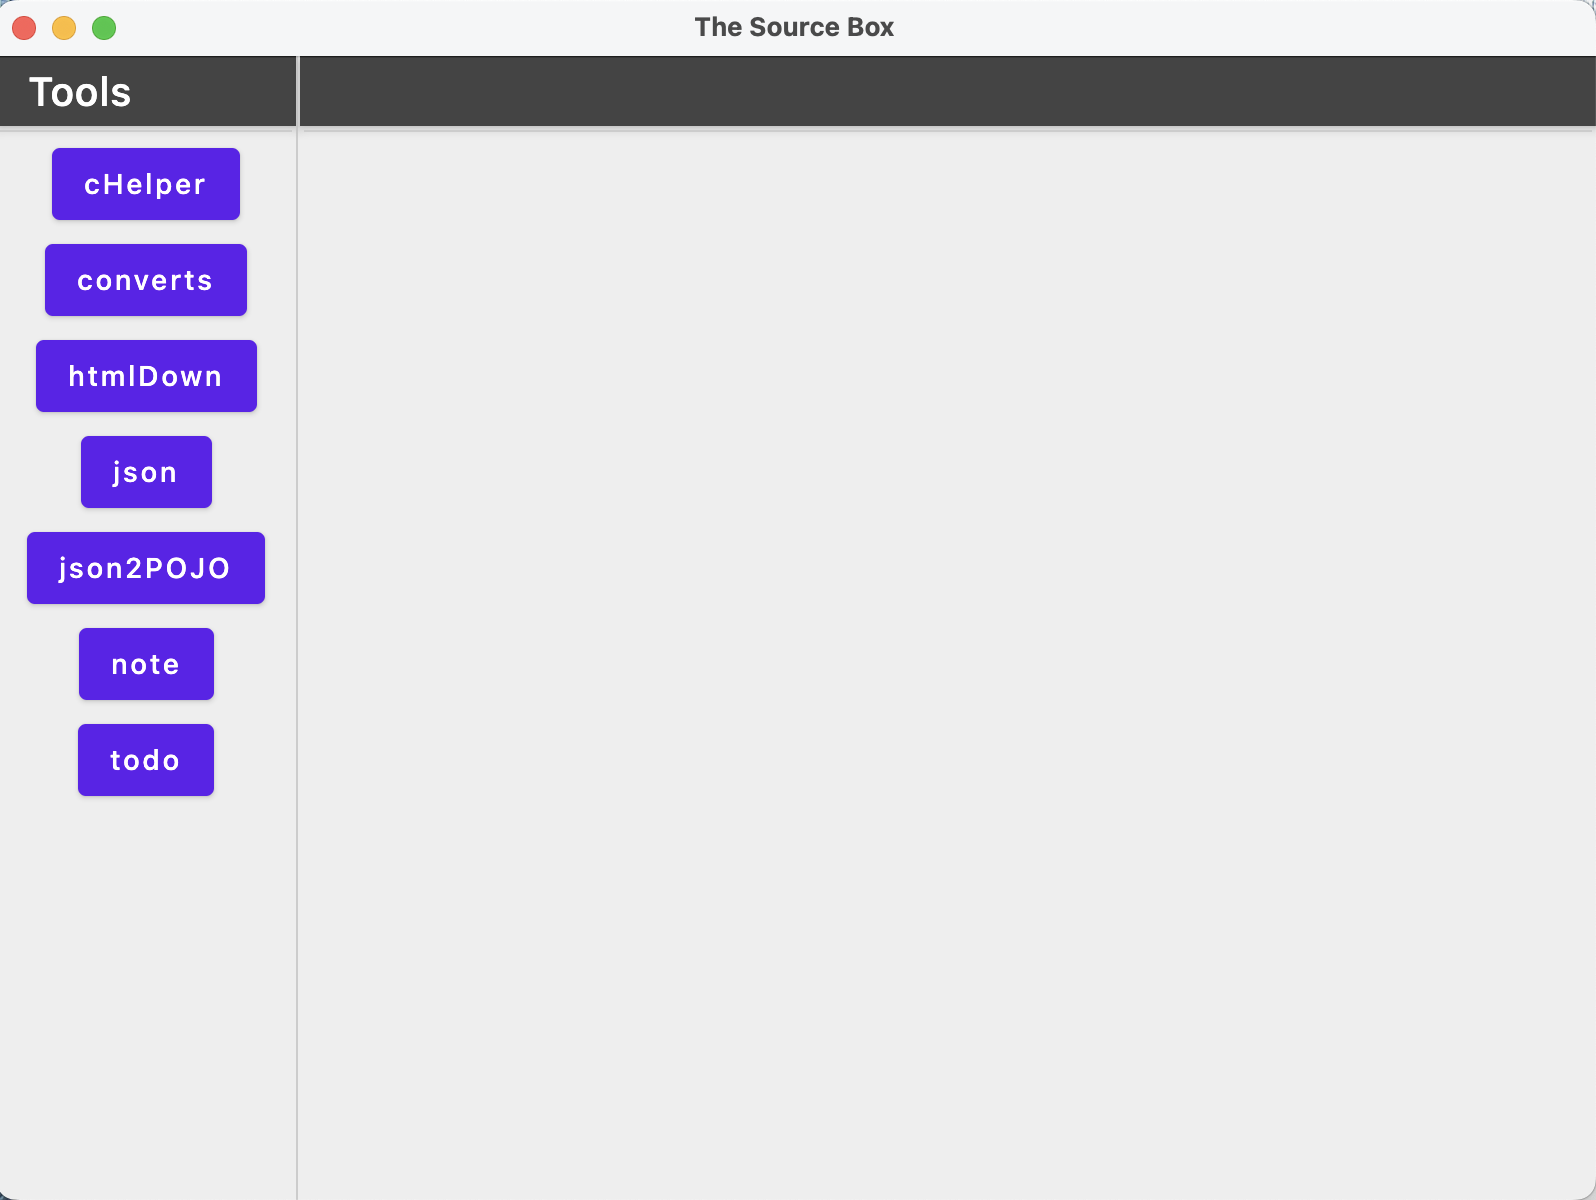
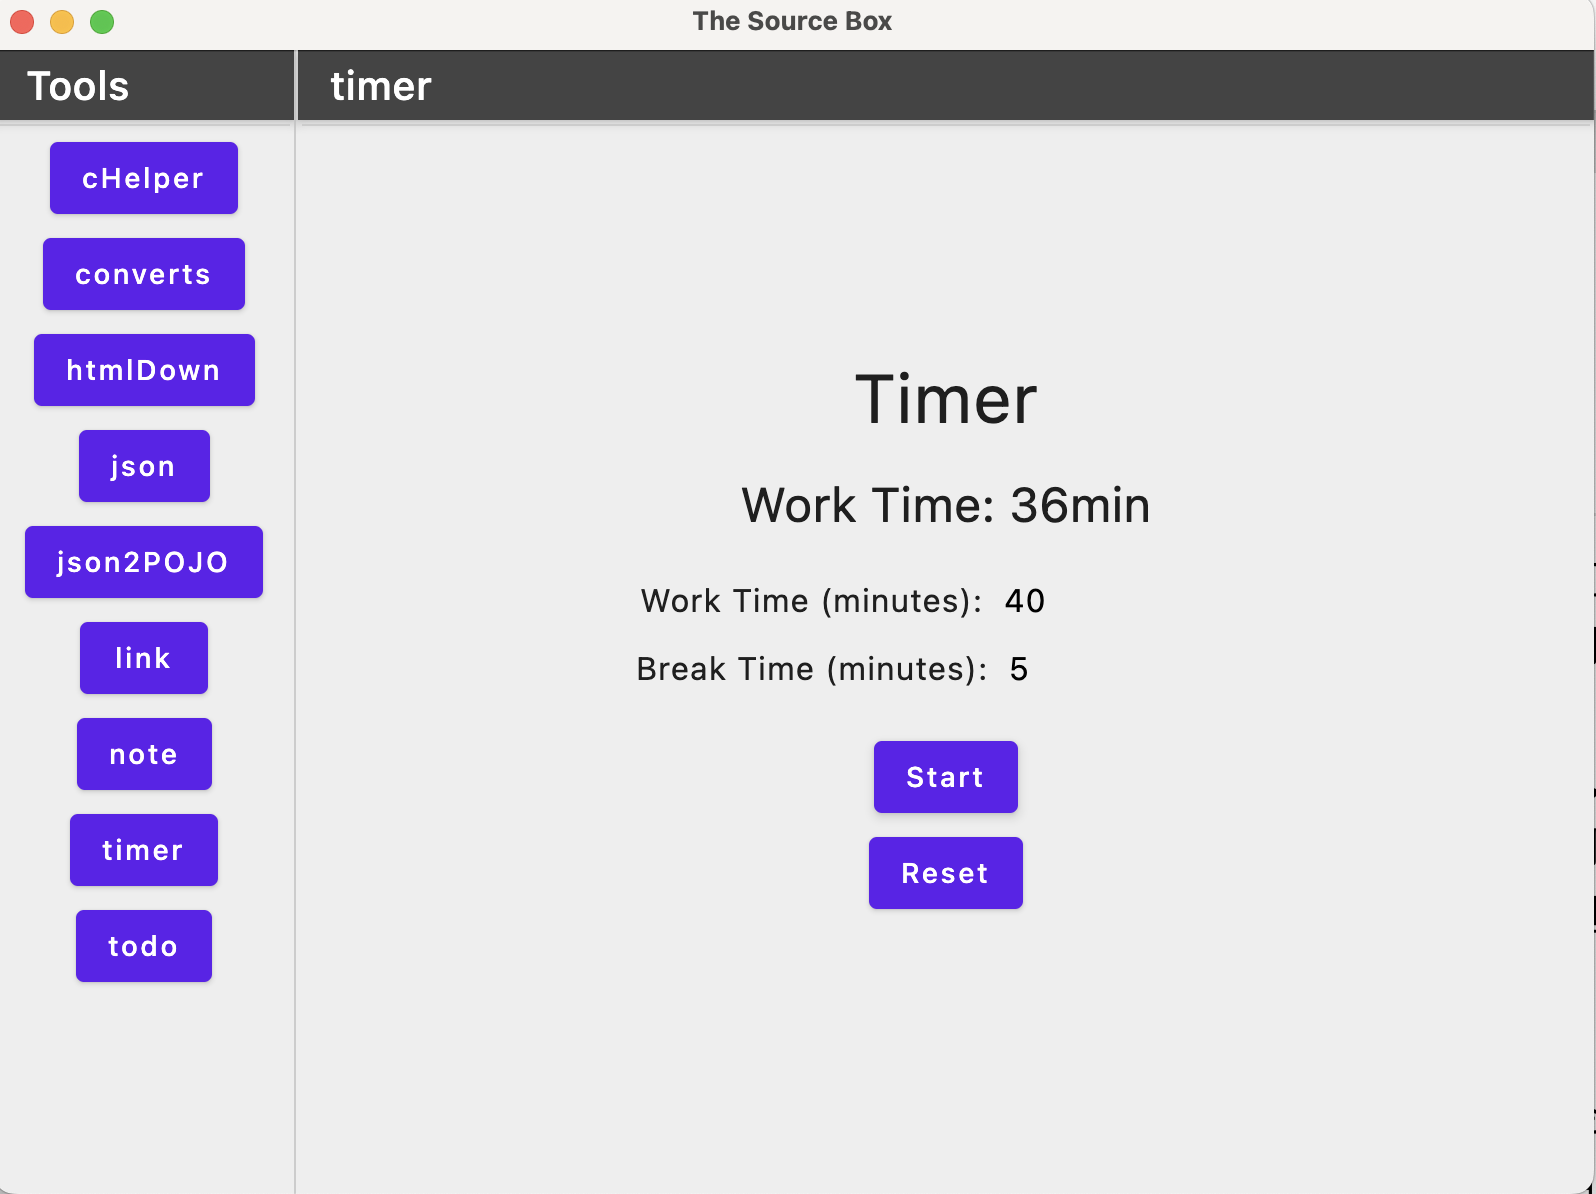
Update README

diff --git a/README.md b/README.md
@@ -170,6 +170,10 @@ Java，可把后缀为`.desktop`，`.webloc`的多个网页快捷文件提取到
 
 如果输入名称是网址，会自动识别网页标题
 
+## 简单番茄时钟
+
+工作和休息计时，休息时弹出全屏遮罩提示进入休息时间
+
 ## 参与开发
 
 执行流程：
